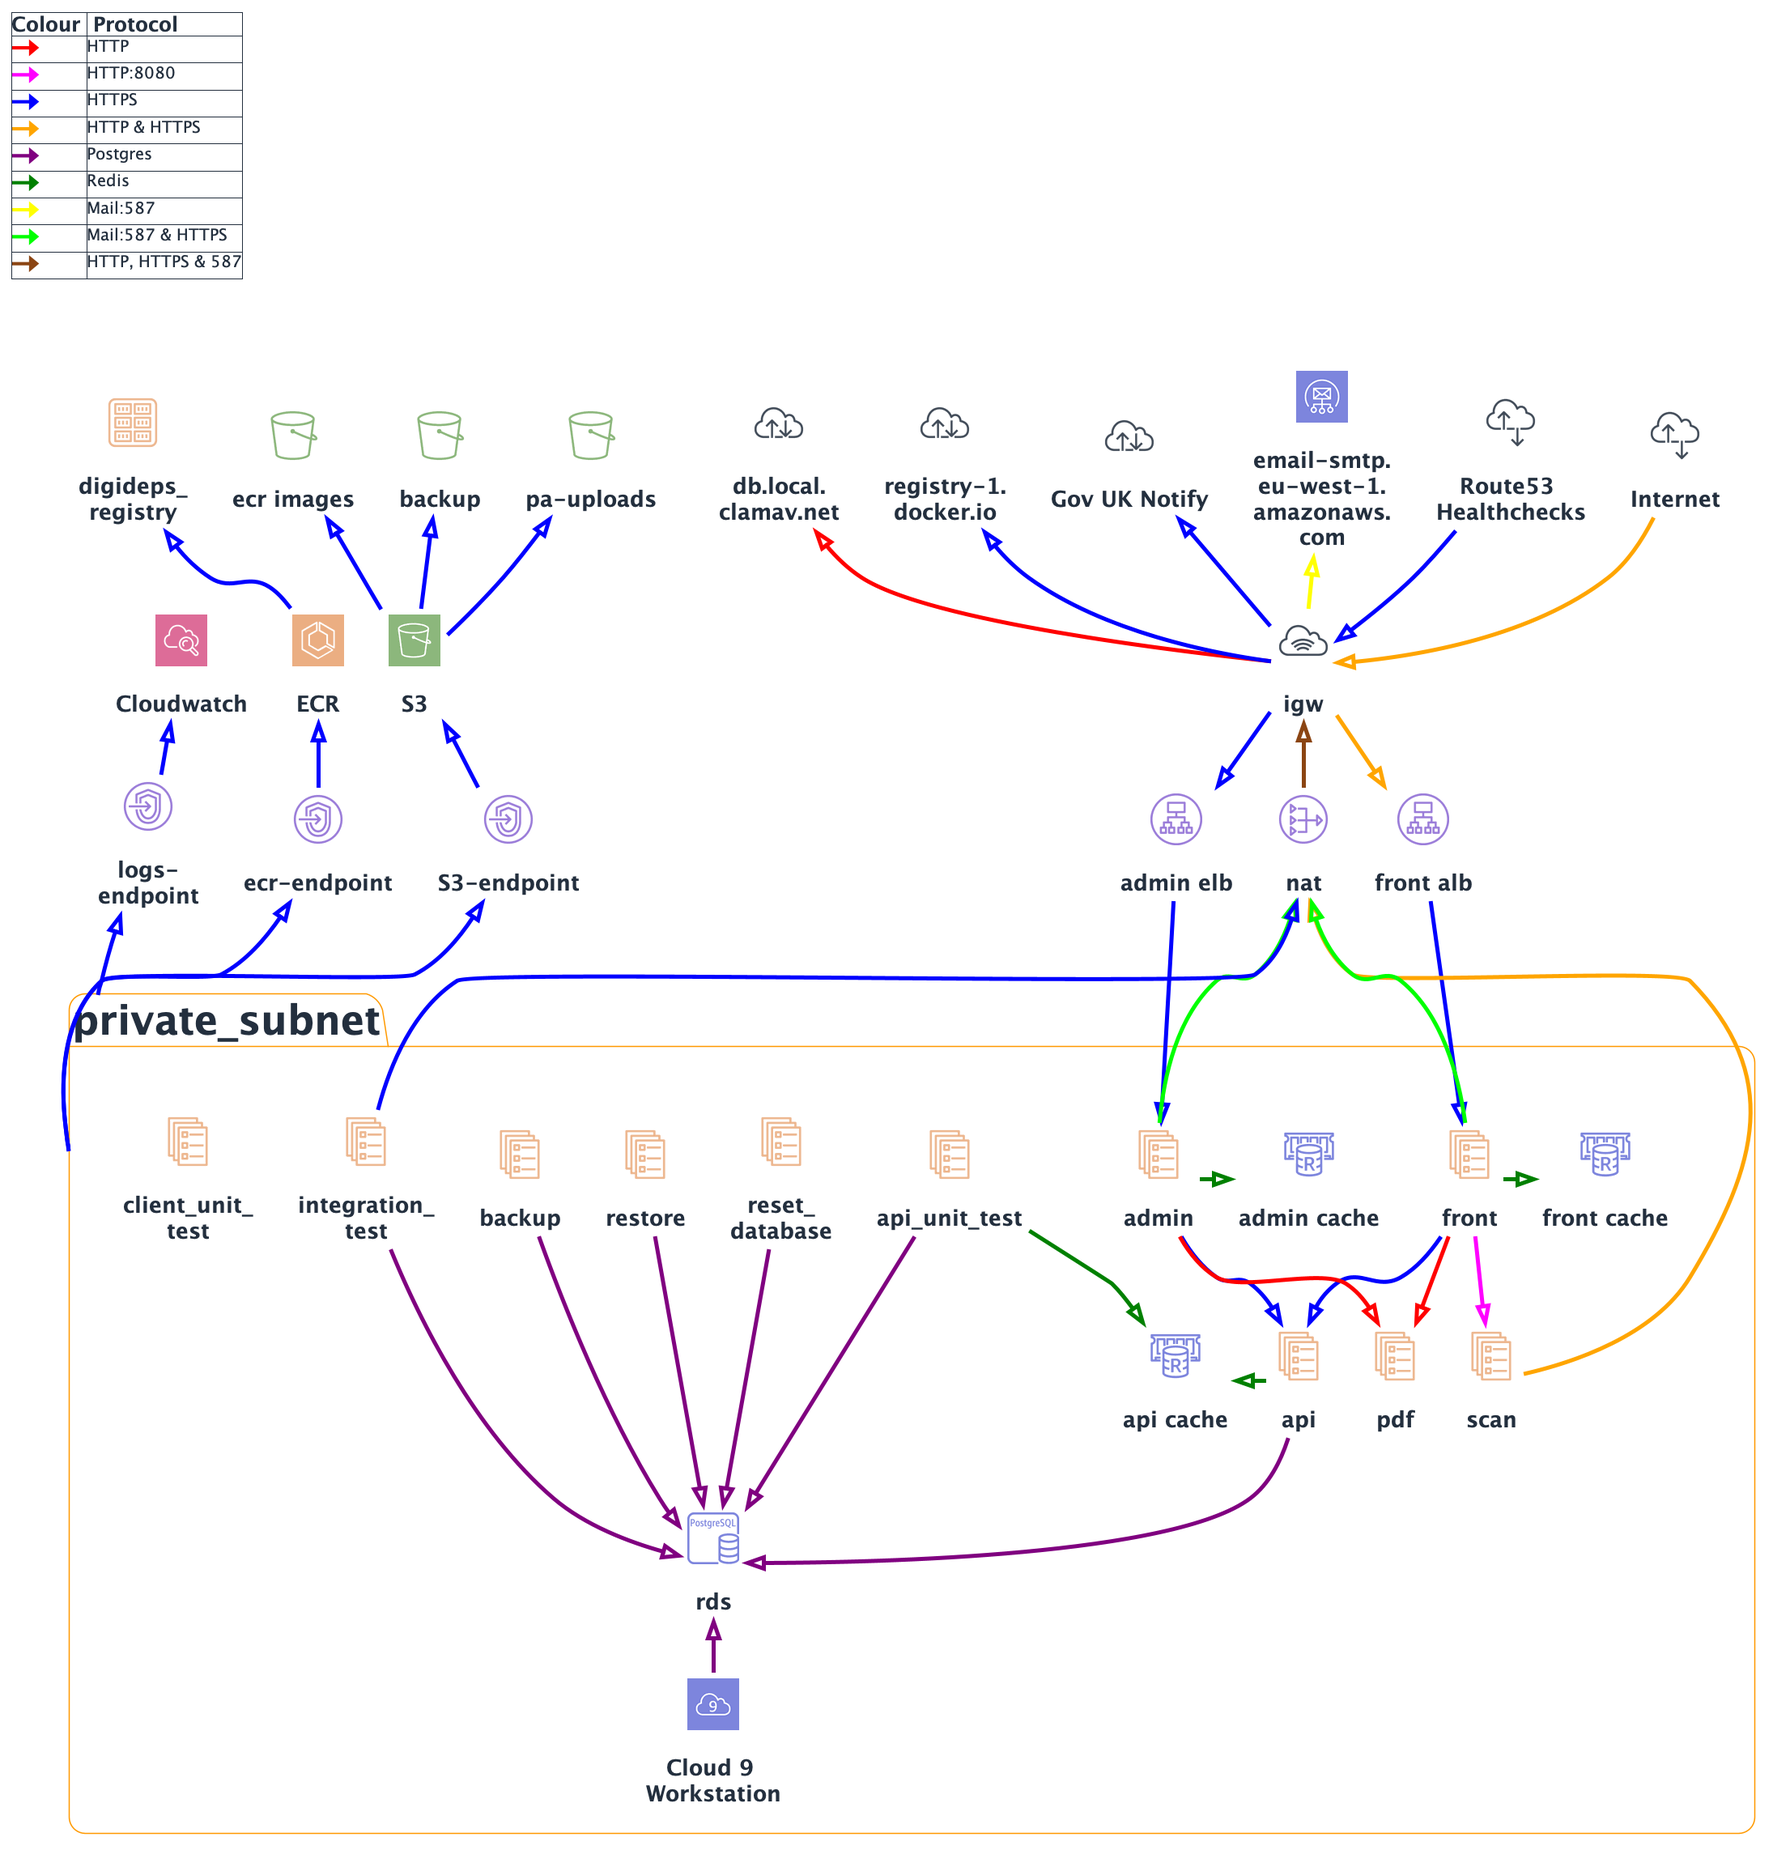
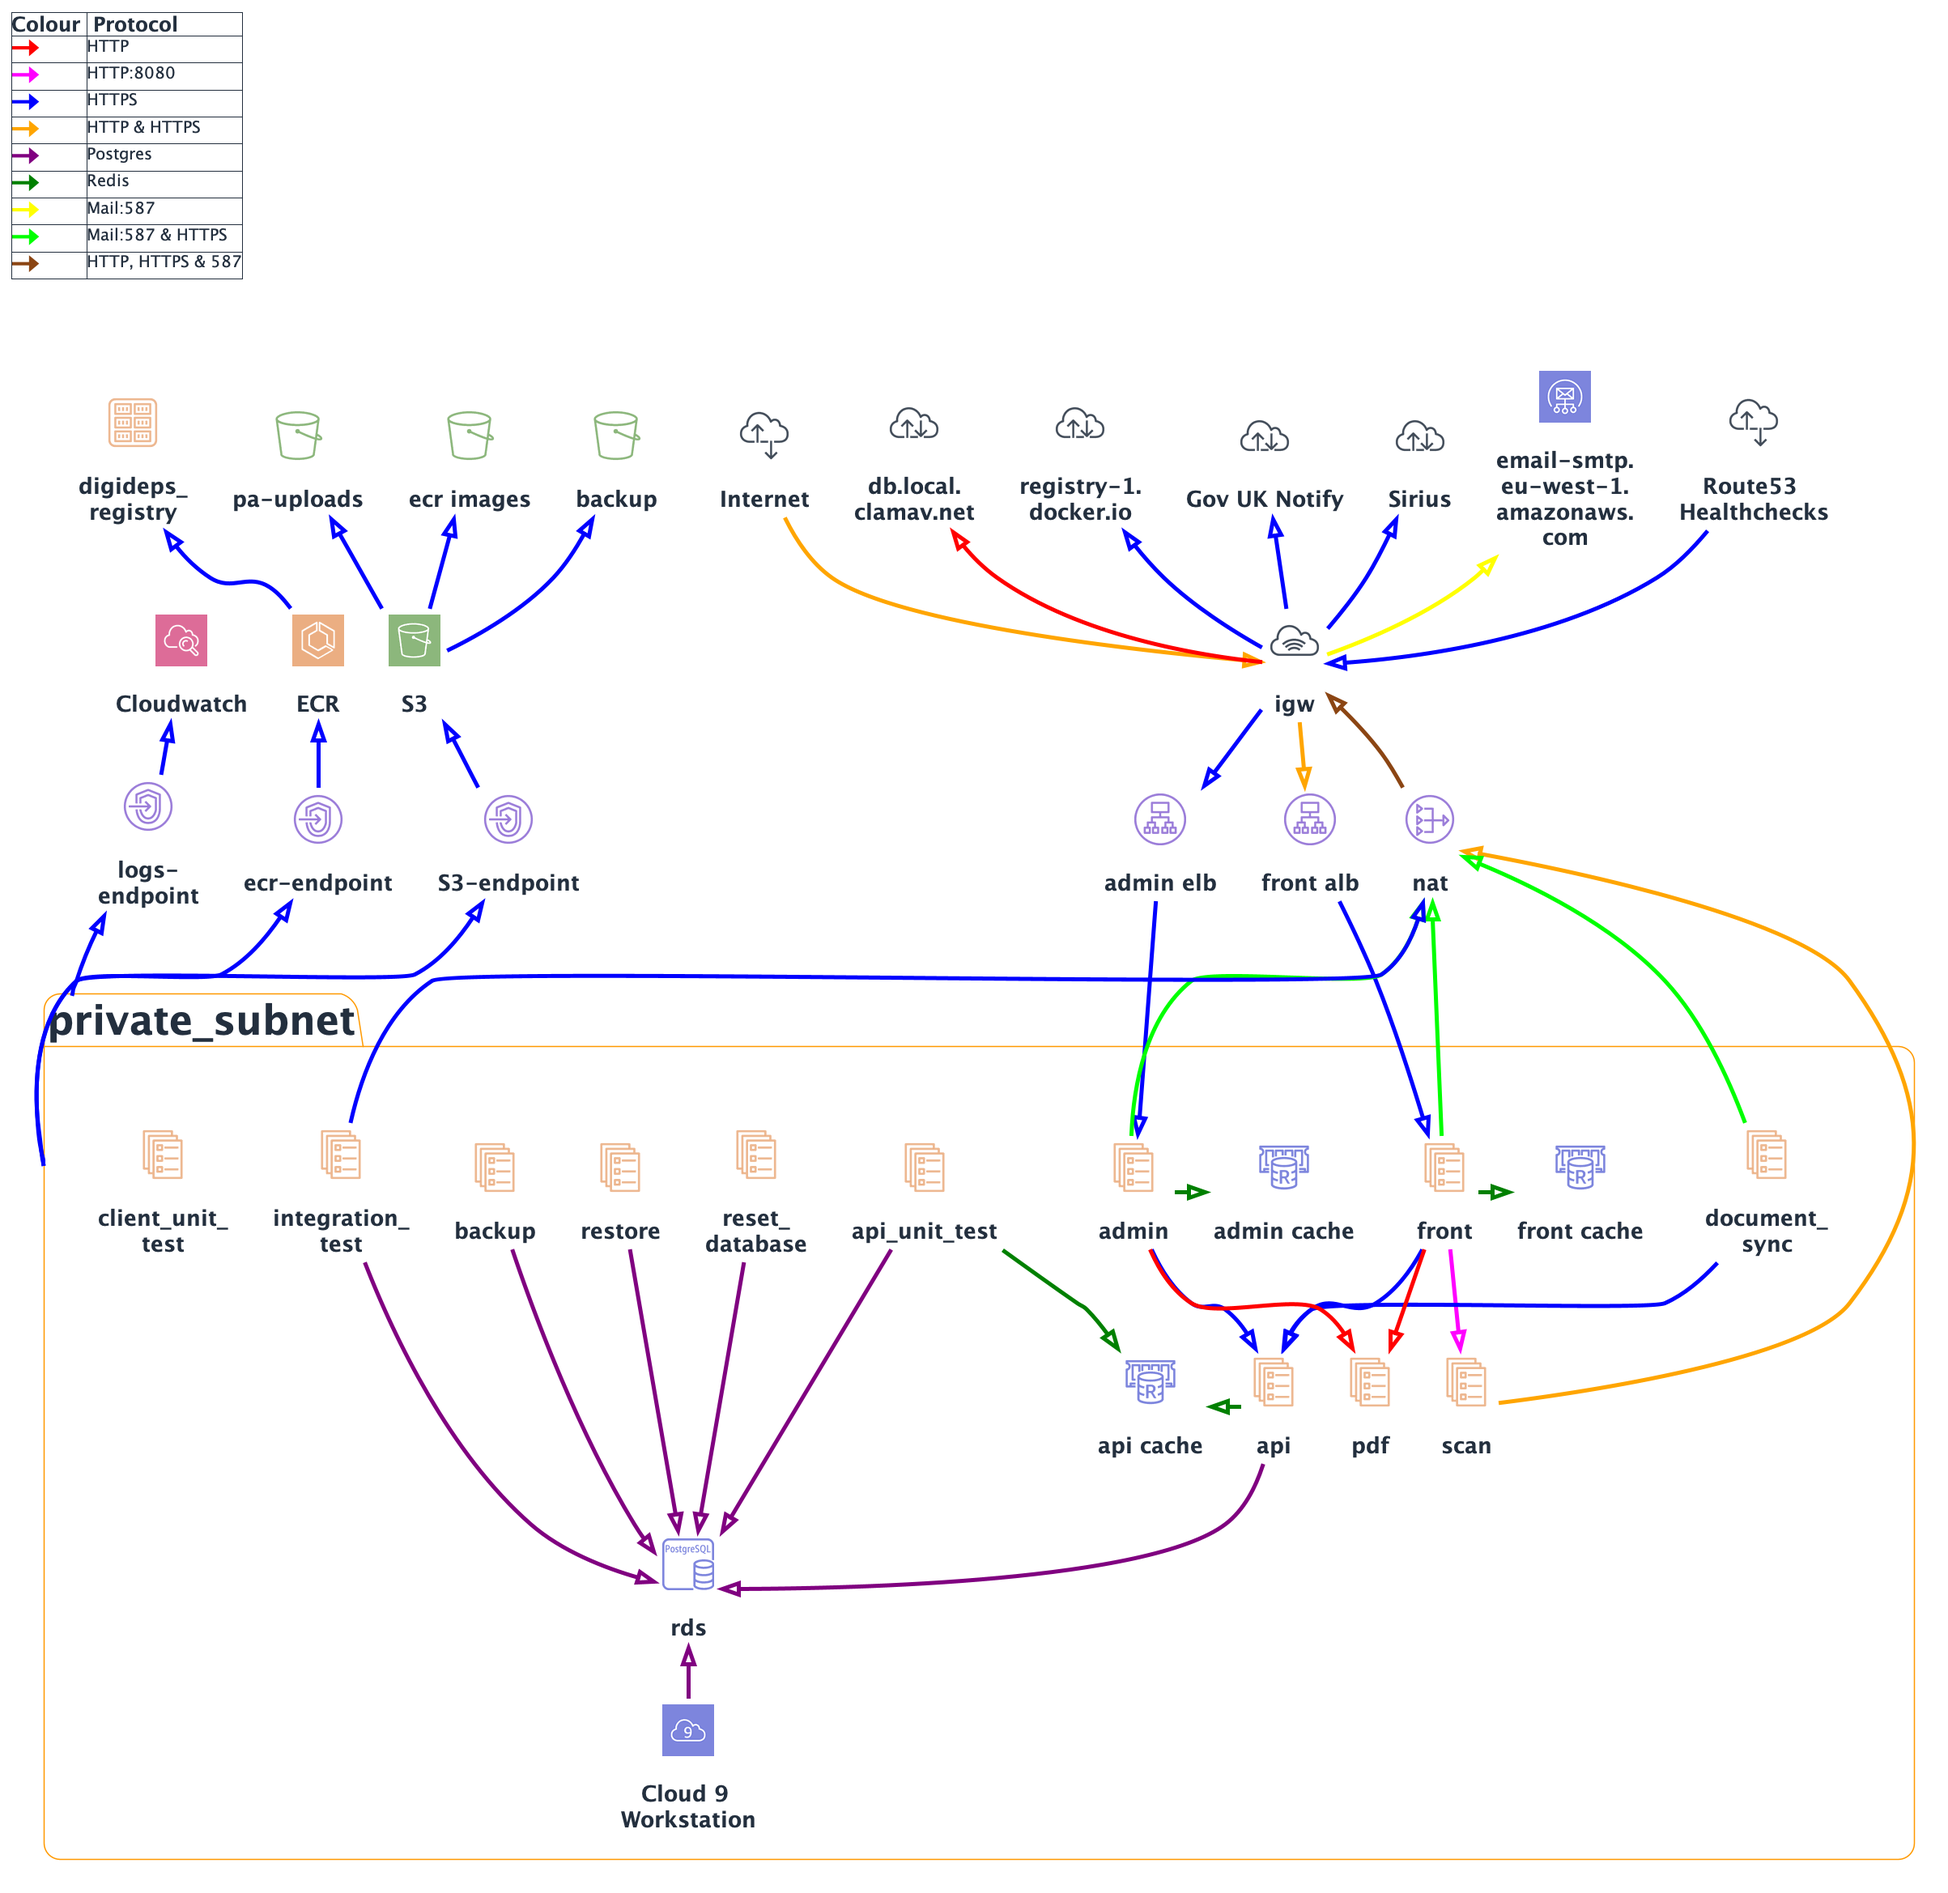
DDPB-3257: Create daemon service for document synchronisation (#266)
* Create command

* Daemonize command

* Gracefully shutdown when command terminated

* Extract daemonization into separate abstract class

* Create script for sync command

Necessary because we have to run confd and generate parameters.yml (sigh)

* Add unit test for command

* Add API endpoint to get queued documents

This uses client secret authentication, because it's run from a command which has no user auth

* Retrieve queued documents from API in command

And prophesize in unit test

* Configure daemon interval time

* Fix PHPStan issues

* Create infra for document sync task

* Fix service name

Because "front" was duplicated, only one would be applied so the actual front container couldn't connect to the API.

* Update traffic flow diagram

diff --git a/client/src/AppBundle/Command/DocumentSyncCommand.php b/client/src/AppBundle/Command/DocumentSyncCommand.php
@@ -1,0 +1,63 @@
+<?php
+
+namespace AppBundle\Command;
+
+use AppBundle\Entity\Report\Document;
+use AppBundle\Service\Client\RestClient;
+use AppBundle\Service\DocumentSyncService;
+use Symfony\Component\Console\Input\InputInterface;
+use Symfony\Component\Console\Output\OutputInterface;
+
+class DocumentSyncCommand extends DaemonableCommand
+{
+    protected static $defaultName = 'digideps:document-sync';
+
+    /** @var DocumentSyncService */
+    private $documentSyncService;
+
+    /** @var RestClient */
+    private $restClient;
+
+    public function __construct(DocumentSyncService $documentSyncService, RestClient $restClient)
+    {
+        $this->documentSyncService = $documentSyncService;
+        $this->restClient = $restClient;
+
+        parent::__construct();
+    }
+
+    protected function configure(): void
+    {
+        parent::configure();
+
+        $this
+            ->setDescription('Uploads queued documents to Sirius and reports back the success');
+        ;
+    }
+
+    protected function execute(InputInterface $input, OutputInterface $output): int
+    {
+        return $this->daemonize($input, $output, function() use ($output) {
+            $documents = $this->getQueuedDocuments();
+            $output->writeln(count($documents) . ' documents to upload');
+
+            foreach ($documents as $document) {
+                $this->documentSyncService->syncReportDocument($document);
+            }
+        }, 5 * 60);
+    }
+
+    /**
+     * @return Document[]
+     */
+    private function getQueuedDocuments(): array
+    {
+        $options = [
+            'query' => [
+                'groups' => ['documents', 'document-synchronisation', 'document-storage-reference', 'document-report', 'report', 'report-client', 'client-case-number']
+            ]
+        ];
+
+        return $this->restClient->apiCall('get', 'document/queued', [], 'Report\\Document[]', $options, false);
+    }
+}

diff --git a/client/tests/phpunit/Command/DocumentSyncCommandTest.php b/client/tests/phpunit/Command/DocumentSyncCommandTest.php
@@ -1,0 +1,49 @@
+<?php
+namespace App\Tests\Command;
+
+use AppBundle\Entity\Report\Document;
+use AppBundle\Service\Client\RestClient;
+use AppBundle\Service\DocumentSyncService;
+use Prophecy\Argument;
+use Prophecy\Prophecy\ObjectProphecy;
+use Symfony\Bundle\FrameworkBundle\Console\Application;
+use Symfony\Bundle\FrameworkBundle\Test\KernelTestCase;
+use Symfony\Component\Console\Tester\CommandTester;
+use Symfony\Component\DependencyInjection\ContainerInterface;
+
+class DocumentSyncCommandTest extends KernelTestCase
+{
+    public function testExecute(): void
+    {
+        $doc = new Document();
+        $doc->setId(6789);
+
+        /** @var RestClient|ObjectProphecy $restClient */
+        $restClient = self::prophesize(RestClient::class);
+        $restClient
+            ->apiCall('get', 'document/queued', [], 'Report\\Document[]', Argument::type('array'), false)
+            ->shouldBeCalled()
+            ->willReturn([ $doc ]);
+
+        /** @var DocumentSyncService|ObjectProphecy $documentSyncService */
+        $documentSyncService = self::prophesize(DocumentSyncService::class);
+        $documentSyncService
+            ->syncReportDocument($doc)
+            ->shouldBeCalled();
+
+        $kernel = static::bootKernel();
+        $application = new Application($kernel);
+
+        /** @var ContainerInterface */
+        $container = $kernel->getContainer();
+        $container->set(DocumentSyncService::class, $documentSyncService->reveal());
+        $container->set(RestClient::class, $restClient->reveal());
+
+        $command = $application->find('digideps:document-sync');
+        $commandTester = new CommandTester($command);
+        $commandTester->execute([]);
+
+        $output = $commandTester->getDisplay();
+        $this->assertStringContainsString('1 documents to upload', $output);
+    }
+}

diff --git a/client/src/AppBundle/Command/DaemonableCommand.php b/client/src/AppBundle/Command/DaemonableCommand.php
@@ -1,0 +1,49 @@
+<?php
+
+namespace AppBundle\Command;
+
+use Symfony\Component\Console\Command\Command;
+use Symfony\Component\Console\Input\InputInterface;
+use Symfony\Component\Console\Input\InputOption;
+use Symfony\Component\Console\Output\OutputInterface;
+
+abstract class DaemonableCommand extends Command
+{
+    /** @var bool */
+    private $shutdownRequested = false;
+
+    protected function configure(): void
+    {
+        $this
+            ->addOption('daemon', 'd', InputOption::VALUE_NONE, 'Whether to run in daemon mode');
+        ;
+    }
+
+    protected function daemonize(InputInterface $input, OutputInterface $output, callable $callback, int $interval): int
+    {
+        if ($input->getOption('daemon')) {
+            $stopCommand = function() use ($output) {
+                $output->writeln('Stopping...');
+                $this->shutdownRequested = true;
+            };
+
+            pcntl_signal(SIGTERM, $stopCommand);
+            pcntl_signal(SIGINT, $stopCommand);
+        } else {
+            $this->shutdownRequested = true;
+        }
+
+        do {
+            call_user_func($callback, $input, $output);
+
+            pcntl_signal_dispatch();
+
+            if (!$this->shutdownRequested) {
+                sleep($interval);
+            }
+
+        } while (!$this->shutdownRequested);
+
+        return 0;
+    }
+}

diff --git a/api/src/AppBundle/Controller/Report/DocumentController.php b/api/src/AppBundle/Controller/Report/DocumentController.php
@@ -4,6 +4,9 @@ namespace AppBundle\Controller\Report;
 
 use AppBundle\Controller\RestController;
 use AppBundle\Entity as EntityDir;
+use AppBundle\Entity\Report\Document;
+use AppBundle\Exception\UnauthorisedException;
+use Doctrine\ORM\EntityManagerInterface;
 use Symfony\Component\Routing\Annotation\Route;
 use Sensio\Bundle\FrameworkExtraBundle\Configuration\Security;
 use Symfony\Component\HttpFoundation\Request;
@@ -103,5 +106,25 @@ class DocumentController extends RestController
         $this->getEntityManager()->flush();
 
         return ['id' => $id];
+    }
+
+    /**
+     * Get queued documents
+     *
+     * @Route("/document/queued", methods={"GET"})
+     *
+     * @return Document[]
+     */
+    public function getQueuedDocuments(Request $request, EntityManagerInterface $em): array
+    {
+        if (!$this->getAuthService()->isSecretValid($request)) {
+            throw new UnauthorisedException('client secret not accepted.');
+        }
+
+        $documentRepo = $em->getRepository(Document::class);
+        $serialisedGroups = $request->query->has('groups')
+            ? (array) $request->query->get('groups') : ['documents'];
+        $this->setJmsSerialiserGroups($serialisedGroups);
+        return $documentRepo->findBy(['synchronisationStatus' => Document::SYNC_STATUS_QUEUED]);
     }
 }

diff --git a/api/tests/AppBundle/Controller/DocumentControllerTest.php b/api/tests/AppBundle/Controller/DocumentControllerTest.php
@@ -118,4 +118,40 @@ class DocumentControllerTest extends AbstractTestController
         self::fixtures()->remove($document)->flush();
 
     }
+
+    public function testGetQueuedDocumentsUsesSecretAuth(): void
+    {
+        $return = $this->assertJsonRequest('GET', '/document/queued', [
+            'mustFail' => true,
+            'ClientSecret' => 'WRONG CLIENT SECRET',
+            'assertCode' => 403,
+            'assertResponseCode' => 403,
+        ]);
+
+        $this->assertStringContainsString('client secret not accepted', $return['message']);
+
+        $return = $this->assertJsonRequest('GET', '/document/queued', [
+            'mustSucceed' => true,
+            'ClientSecret' => API_TOKEN_DEPUTY,
+        ]);
+
+        self::assertCount(0, $return['data']);
+    }
+
+    public function testGetQueuedDocuments(): void
+    {
+        // Queue a document
+        $document = $this->repo->find(1);
+        self::assertInstanceOf(Document::class, $document);
+
+        $document->setSynchronisationStatus(Document::SYNC_STATUS_QUEUED);
+        self::fixtures()->flush();
+
+        $return = $this->assertJsonRequest('GET', '/document/queued', [
+            'mustSucceed' => true,
+            'ClientSecret' => API_TOKEN_DEPUTY,
+        ]);
+
+        self::assertCount(1, $return['data']);
+    }
 }
